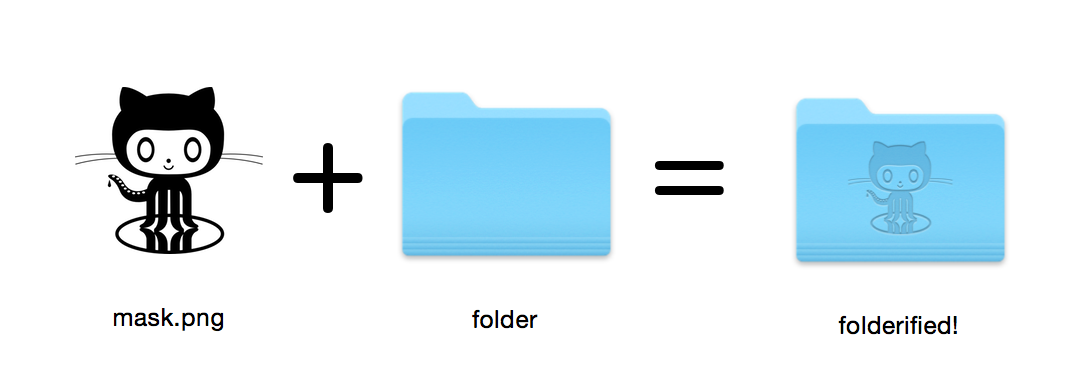
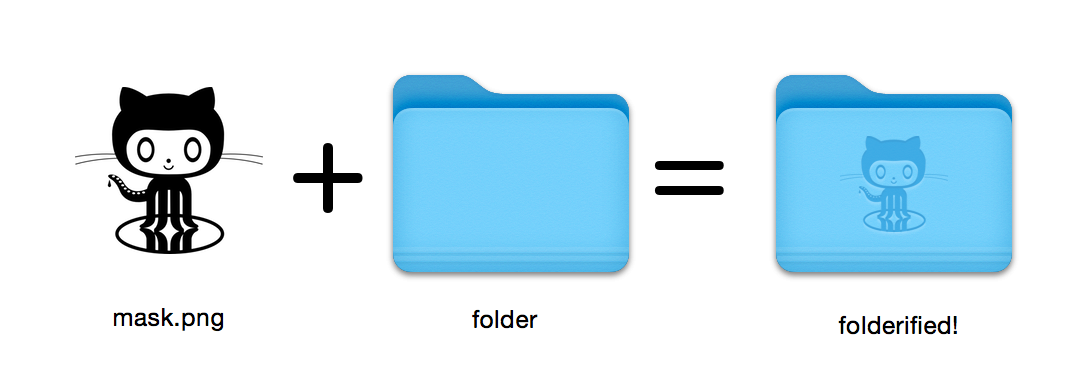
Update explanation image for Big Sur.

Changed region(s): [[0.7107, 0.1865, 0.9579, 0.7461], [0.3399, 0.1865, 0.618, 0.7461]]

diff --git a/README.md b/README.md
@@ -2,6 +2,9 @@
 
 ![mask.png + folder = folderified!](examples/png/explanation.png)
 
+Generate pixel-perfect macOS folder icons. Works for macOS 10.5 (Leopard)
+through 10.11 (Big Sur) and automatically includes all icon sizes from `16x16` through `512x512@2x`.
+
 # Install [from PyPI](https://pypi.python.org/pypi/folderify/) using `pip`
 
     brew install imagemagick # Make sure ImageMagick installed.
